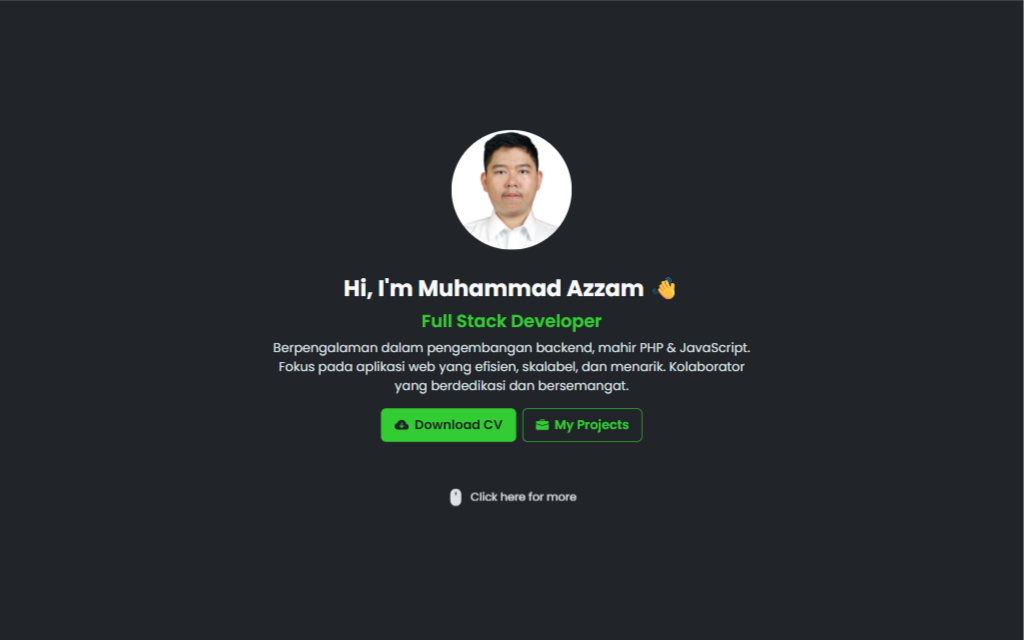
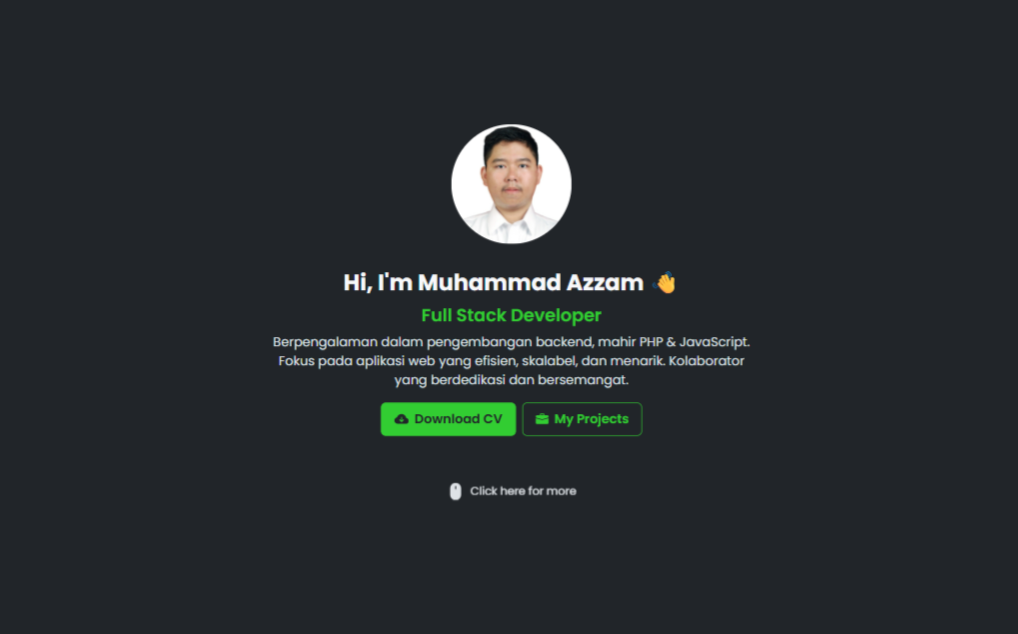
update skill and my projects

Changed region(s): [[0.2436, 0.4196, 0.7308, 0.6893], [0.4263, 0.1798, 0.5786, 0.3896], [0.4263, 0.7492, 0.5786, 0.8091]]

diff --git a/src/utils/Projects.js b/src/utils/Projects.js
@@ -19,8 +19,8 @@ const projects = [
   {
     tabId: 1,
     name: "Portfolio",
-    description_id: `Website ini merupakan portofolio pribadi pertama yang saya buat dengan tujuan untuk memperkenalkan diri secara profesional. Di dalamnya, saya menampilkan informasi pribadi, pengalaman kerja, proyek-proyek nyata yang pernah saya kerjakan, serta keahlian dan tools yang saya kuasai dalam pengembangan web dan aplikasi. Selain itu, website ini juga memuat riwayat pendidikan saya sebagai bagian dari perjalanan dan pengembangan karier saya di dunia teknologi informasi.`,
-    description_en: `This website is my first personal portfolio, designed to showcase my professional profile. It features my personal details, work experience, real-world projects I've completed, along with my expertise and tools I use in web and app development. Furthermore, it includes my educational history, highlighting my journey and growth in the IT industry.`,
+    description_id: `Website ini merupakan portofolio pribadi pertama saya, yang saya buat untuk memperkenalkan diri secara profesional. Di sini, Anda dapat menemukan informasi pribadi, pengalaman kerja, proyek-proyek nyata yang pernah saya kerjakan, serta keahlian dan tools yang saya kuasai dalam pengembangan web dan aplikasi. Saya juga mencantumkan riwayat pendidikan sebagai bagian dari perjalanan karier saya di dunia teknologi informasi.`,
+    description_en: `This website is my first personal portfolio, which I created to introduce myself professionally. Here, you can find personal information, work experience, real projects I have worked on, as well as the skills and tools I master in web and application development. I also include my educational background as part of my career journey in the information technology world.`,
     role: "Frontend Developer",
     client: "Muhammad Azzam Nur Alwi Mansyur",
     period_id: "Juni 2025",
@@ -43,8 +43,8 @@ const projects = [
   {
     tabId: 1,
     name: "Cheriewish",
-    description_id: `Website ini dibuat sebagai media untuk memperkenalkan brand Cheriewish kepada publik, sekaligus menampilkan berbagai produk fashion muslim yang dirancang secara eksklusif oleh mereka. Melalui website ini, pengunjung dapat melihat detail lengkap dari setiap produk, mulai dari deskripsi, bahan, ukuran, hingga tampilan visual berupa foto produk yang jelas dan menarik. Selain itu, tersedia katalog produk yang memudahkan pengunjung dalam menjelajahi koleksi-koleksi Cheriewish. Untuk proses pembelian, pengunjung akan diarahkan secara otomatis ke platform e-commerce Shopee sebagai mitra penjualan resmi. Tak hanya itu, website ini juga memuat dokumentasi kegiatan Cheriewish dalam bentuk foto dan video, seperti sesi pemotretan, peluncuran koleksi terbaru, hingga partisipasi dalam berbagai acara, guna menunjukkan komitmen dan perkembangan brand dalam industri fashion tanah air.`,
-    description_en: `This website was created as a medium to introduce the Cheriewish brand to the public while showcasing their range of exclusively designed Muslim fashion products. Visitors can explore complete product details—including descriptions, materials, sizes, and high-quality visual displays—alongside a curated catalog for seamless browsing. To purchase, visitors will be automatically redirected to Shopee, the brand’s official e-commerce partner. The website also features Cheriewish’s activity documentation, such as photoshoots, new collection launches, and event participations, through photos and videos, demonstrating the brand’s commitment and progress in Indonesia’s fashion industry.`,
+    description_id: `Website ini dibuat sebagai media untuk memperkenalkan brand Cheriewish kepada publik sekaligus menampilkan berbagai produk fashion muslim ala Korea. Melalui website ini, pengguna dapat melihat detail lengkap setiap produk, mulai dari deskripsi, bahan, ukuran, hingga tampilan visual berupa foto produk yang jelas dan menarik. Selain itu, tersedia katalog produk yang memudahkan pengguna menjelajahi koleksi Cheriewish. Untuk proses pembelian, pengguna akan diarahkan secara otomatis ke platform e-commerce Shopee sebagai mitra penjualan resmi. Tak hanya itu, website ini juga menampilkan dokumentasi foto kegiatan penjualan serta pelanggan yang telah membeli produk Cheriewish.`,
+    description_en: `This website was created as a medium to introduce the Cheriewish brand to the public while showcasing various Korean-style Muslim fashion products. Through this website, users can view complete details of each product, including descriptions, materials, sizes, and clear, attractive product photos. Additionally, a product catalog is available to help users explore Cheriewish’s collections. For the purchasing process, users will be automatically directed to Shopee, the official e-commerce partner. Not only that, this website also features photo documentation of sales activities and customers who have purchased Cheriewish products.`,
     role: "Frontend Developer",
     client: "Lovina Aulia",
     period_id: "Juni 2025",
@@ -67,8 +67,8 @@ const projects = [
   {
     tabId: 1,
     name: "Relokasi",
-    description_id: `Website ini dirancang sebagai profil digital resmi untuk perusahaan PT Medan Packing Relokasi yang bergerak di bidang jasa pindahan. Melalui website ini, pengunjung dapat mengetahui informasi umum tentang perusahaan serta layanan-layanan utama yang ditawarkan. Website ini juga dilengkapi dengan fitur pelacakan pengiriman secara akurat dan real-time menggunakan nomor tanda terima, yang memudahkan pengguna dalam memantau status pengiriman barang. Selain itu, tersedia pula fitur terjemahan bahasa yang memungkinkan pengunjung mengakses konten dalam Bahasa Indonesia maupun Bahasa Inggris.`,
-    description_en: `This website is designed as the official digital profile for PT Medan Packing Relokasi, a company operating in the relocation services industry. Through this website, visitors can learn general information about the company as well as the main services offered. The website also features an accurate and real-time shipment tracking system using a receipt number, making it easier for users to monitor the status of their goods delivery. Additionally, a language translation feature is available, allowing visitors to access content in both Indonesian and English.`,
+    description_id: `Website ini merupakan profil digital resmi PT Medan Packing Relokasi, perusahaan yang bergerak di bidang jasa pindahan. Melalui website ini, pengguna dapat memperoleh informasi umum tentang perusahaan serta layanan utama yang ditawarkan. Fitur pelacakan pengiriman secara akurat dan real-time dengan nomor tanda terima turut disediakan untuk memudahkan pelanggan dalam memantau status pengiriman barang. Selain itu, tersedia fitur terjemahan bahasa yang memungkinkan akses konten dalam Bahasa Indonesia maupun Bahasa Inggris.`,
+    description_en: `This website is the official digital profile of PT Medan Packing Relokasi, a company engaged in relocation services. Through this website, users can obtain general information about the company as well as the main services offered. An accurate and real-time shipment tracking feature using the receipt number is also provided to help customers monitor the status of their goods delivery. Additionally, a language translation feature is available, allowing access to content in both Indonesian and English.`,
     role: "Web Developer",
     client: "PT Medan Packing Relokasi",
     period_id: "Juni 2024",
@@ -91,8 +91,8 @@ const projects = [
   {
     tabId: 1,
     name: "Astra Awards",
-    description_id: `Website ini dibuat sebagai platform perlombaan antar masjid dan musala yang diselenggarakan oleh Yayasan Amaliah Astra (YAA). Perlombaan ini ditujukan bagi masjid dan musala yang berada di kawasan perusahaan-perusahaan Astra, tanpa memandang bidang usaha dari perusahaan tersebut. Perwakilan dari masing-masing masjid atau musala dapat mendaftar secara online dan mengisi formulir jawaban sesuai dengan ketentuan yang telah ditetapkan. Penilaian dalam perlombaan ini dilakukan melalui tiga tahap, yaitu pra-penilaian oleh panitia, penilaian awal oleh dewan juri, dan penilaian akhir oleh dewan juri. Hasil dari seluruh tahapan tersebut akan menentukan tiga pemenang utama. Melalui perlombaan ini, diharapkan masjid dan musala di lingkungan Astra dapat saling berbagi inspirasi serta meningkatkan kualitas kegiatan keagamaan dan sosial di lingkungan masing-masing.`,
-    description_en: `This website was created as a competition platform for mosques and prayer rooms (musholla) organized by the Astra Amaliah Foundation (YAA), aimed at mosques and musholla located in the areas of Astra-affiliated companies, regardless of the companies’ business sectors. Representatives from each mosque or musholla can register online and submit their answer forms according to the specified guidelines, with the competition’s assessment conducted in three stages: pre-evaluation by the committee, initial judging by the jury panel, and final judging by the jury panel, where the combined results will determine the three main winners. Through this competition, it is hoped that mosques and musholla within the Astra community can share inspiration and improve the quality of religious and social activities in their respective environments.`,
+    description_id: `Website ini dibuat sebagai platform perlombaan antar masjid dan musala yang diselenggarakan oleh Yayasan Amaliah Astra (YAA), khusus bagi masjid dan musala di kawasan perusahaan-perusahaan Astra tanpa memandang bidang usahanya. Perwakilan masing-masing masjid dan musala dapat mendaftar secara online dan mengisi formulir jawaban sesuai ketentuan yang berlaku. Penilaian dilakukan melalui tiga tahap: pra-penilaian oleh panitia, penilaian awal oleh dewan juri, dan penilaian akhir oleh dewan juri, dengan hasil akhir akan menentukan tiga pemenang utama. Melalui perlombaan ini, diharapkan masjid dan musala di lingkungan Astra dapat saling berbagi inspirasi serta meningkatkan kualitas kegiatan keagamaan dan sosial di lingkungan masing-masing.`,
+    description_en: `This website was created as a competition platform among mosques and prayer rooms (musholla) organized by the Astra Amaliah Foundation (YAA), specifically for mosques and prayer rooms in the vicinity of Astra-affiliated companies, regardless of their business sectors. Representatives of each mosque and prayer room can register online and fill out the answer form according to the applicable rules. The judging process consists of three stages: pre-assessment by the committee, preliminary assessment by the judging panel, and final assessment by the judging panel, with the final results determining the three main winners. Through this competition, it is hoped that mosques and prayer rooms within the Astra community can share inspiration and enhance the quality of religious and social activities in their respective environments.`,
     role: "Full Stack Developer",
     client: "Yayasan Amaliah Astra (YAA)",
     period_id: "Agustus 2024 - November 2024",
@@ -102,8 +102,8 @@ const projects = [
     link_github: null,
     status_demo_id: "Hanya untuk Pemakaian Internal",
     status_demo_en: "Internal Use Only",
-    status_github_id: "Terbatas",
-    status_github_en: "Private",
+    status_github_id: "Tidak Tersedia",
+    status_github_en: "Not Available",
     files: [
       {
         type: "image",
@@ -115,8 +115,8 @@ const projects = [
   {
     tabId: 2,
     name: "Jamnation",
-    description_id: `Aplikasi Jamnation (Jamkrindo Network Information) merupakan platform informasi internal yang dirancang untuk memudahkan setiap divisi dalam mengakses berbagai informasi jaringan kantor secara detail. Informasi yang ditampilkan dalam aplikasi ini dikelola oleh admin, sementara pengguna dari divisi-divisi lain hanya memiliki akses untuk melihat informasi yang relevan dengan kebutuhan mereka. Dengan hadirnya aplikasi ini, proses kerja tiap divisi menjadi lebih terbantu dan efisien. Aplikasi Jamnation juga tersedia dan dapat diunduh melalui Play Store dan App Store, sehingga dapat diakses dengan mudah melalui berbagai perangkat.`,
-    description_en: `Jamnation Application (Jamkrindo Network Information) is an internal information platform designed to facilitate each division in accessing various detailed office network information. The information displayed in this application is managed by the admin, while users from other divisions only have access to view information relevant to their needs. With the presence of this application, the workflow of each division becomes more efficient and assisted. Jamnation is also available and can be downloaded on the Play Store and App Store, making it easily accessible across various devices.`,
+    description_id: `Aplikasi Jamnation (Jamkrindo Network Information) adalah platform informasi internal yang dirancang untuk memudahkan setiap divisi mengakses detail jaringan kantor. Informasi dalam aplikasi ini dikelola oleh admin, sementara pengguna divisi lain hanya dapat melihat data yang relevan dengan kebutuhan mereka. Kehadiran Jamnation membantu memperlancar proses kerja divisi sehingga lebih efisien, dan aplikasi ini tersedia di Play Store maupun App Store untuk diunduh serta diakses dengan mudah melalui berbagai perangkat.`,
+    description_en: `Jamnation (Jamkrindo Network Information) is an internal information platform designed to make it easier for each division to access office network details. The information in this application is managed by the admin, while users from other divisions can only view data relevant to their needs. The presence of Jamnation helps streamline divisional workflows, making them more efficient. This app is available on the Play Store and App Store for download and can be easily accessed across various devices.`,
     role: "Frontend Developer",
     client: "PT Jaminan Kredit Indonesia",
     period_id: "November 2024 - Maret 2025",
@@ -126,8 +126,8 @@ const projects = [
     link_github: null,
     status_demo_id: "Hanya untuk Pemakaian Internal",
     status_demo_en: "Internal Use Only",
-    status_github_id: "Terbatas",
-    status_github_en: "Private",
+    status_github_id: "Tidak Tersedia",
+    status_github_en: "Not Available",
     files: [
       {
         type: "image",

diff --git a/src/utils/Skills.js b/src/utils/Skills.js
@@ -1,11 +1,14 @@
 import Html from "../assets/images/skills/html.svg";
 import Css from "../assets/images/skills/css.svg";
 import Javascript from "../assets/images/skills/javascript.svg";
+import Php from "../assets/images/skills/php.svg";
+import Dart from "../assets/images/skills/dart.svg";
 import Jquery from "../assets/images/skills/jquery.svg";
 import Bootstrap from "../assets/images/skills/bootstrap.svg";
-import Php from "../assets/images/skills/php.svg";
 import Laravel from "../assets/images/skills/laravel.svg";
 import ReactJS from "../assets/images/skills/react.svg";
+import Flutter from "../assets/images/skills/flutter.svg";
+import WordPress from "../assets/images/skills/wordpress.svg";
 import VsCode from "../assets/images/skills/vscode.svg";
 import Git from "../assets/images/skills/git.svg";
 import Github from "../assets/images/skills/github.svg";
@@ -25,6 +28,14 @@ const skills = [
     name: "Javascript",
   },
   {
+    image: Php,
+    name: "PHP",
+  },
+  {
+    image: Dart,
+    name: "Dart",
+  },
+  {
     image: Jquery,
     name: "JQuery",
   },
@@ -33,16 +44,20 @@ const skills = [
     name: "Bootstrap",
   },
   {
-    image: Php,
-    name: "PHP",
-  },
-  {
     image: Laravel,
     name: "Laravel",
   },
   {
     image: ReactJS,
     name: "React JS",
+  },
+  {
+    image: Flutter,
+    name: "Flutter",
+  },
+  {
+    image: WordPress,
+    name: "WordPress",
   },
   {
     image: VsCode,

diff --git a/src/App.jsx b/src/App.jsx
@@ -23,7 +23,7 @@ i18n.use(initReactI18next).init({
         headerTitle: "Hai, saya",
         headerDescription: profileData.short_description_id,
         titleBtnCV: "Unduh CV",
-        titleBtnProject: "Jelajahi Proyek",
+        titleBtnProject: "Proyek Saya",
         titleBtnScrollDown: "Klik untuk info lebih lanjut",
         aboutTitle: "Tentang Saya",
         aboutContent: profileData.long_description_id,
@@ -58,7 +58,7 @@ i18n.use(initReactI18next).init({
         headerTitle: "Hi, I'm",
         headerDescription: profileData.short_description_en,
         titleBtnCV: "Download CV",
-        titleBtnProject: "Explore Projects",
+        titleBtnProject: "My Projects",
         titleBtnScrollDown: "Click here for more",
         aboutTitle: "About Me",
         aboutContent: profileData.long_description_en,
